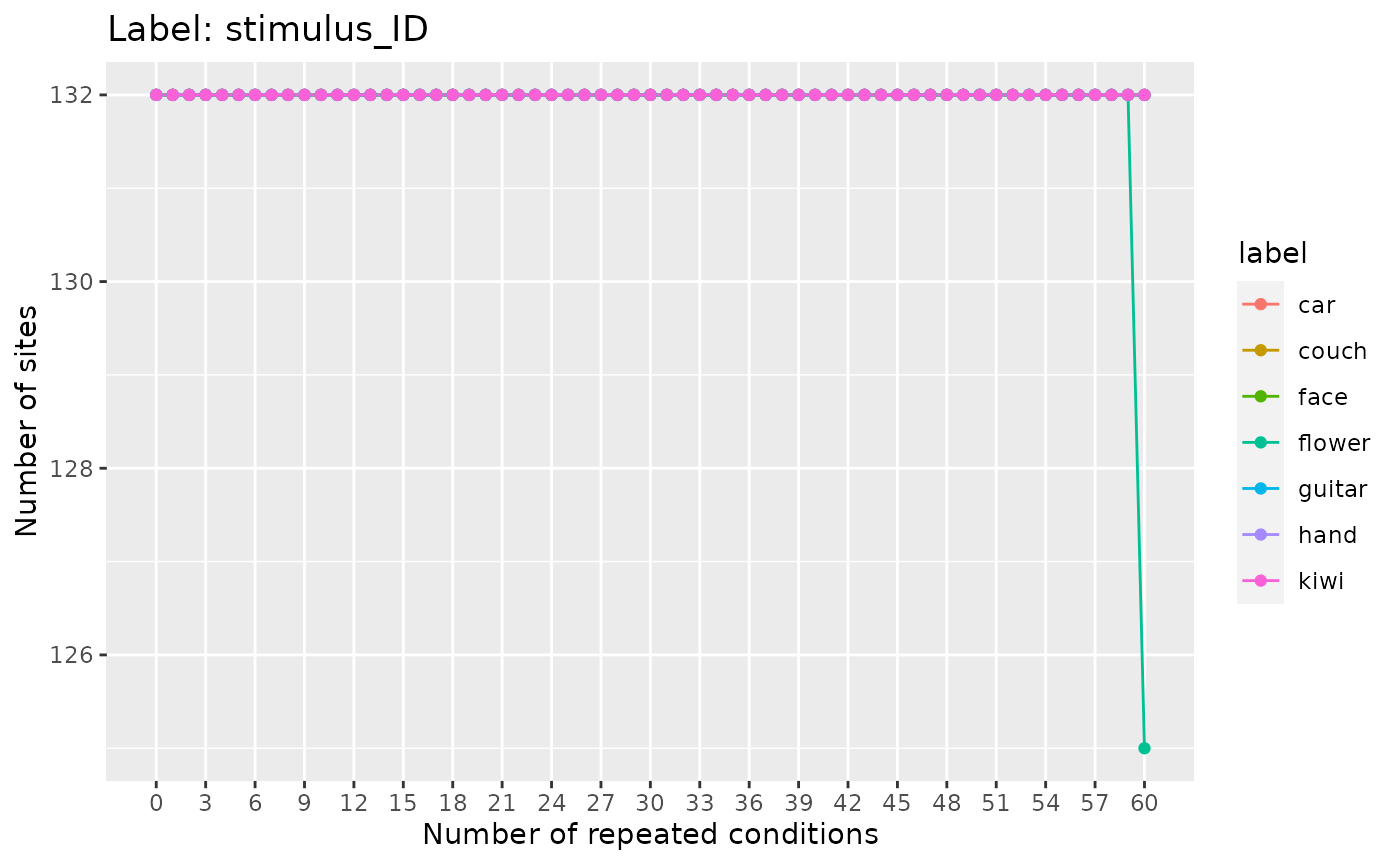
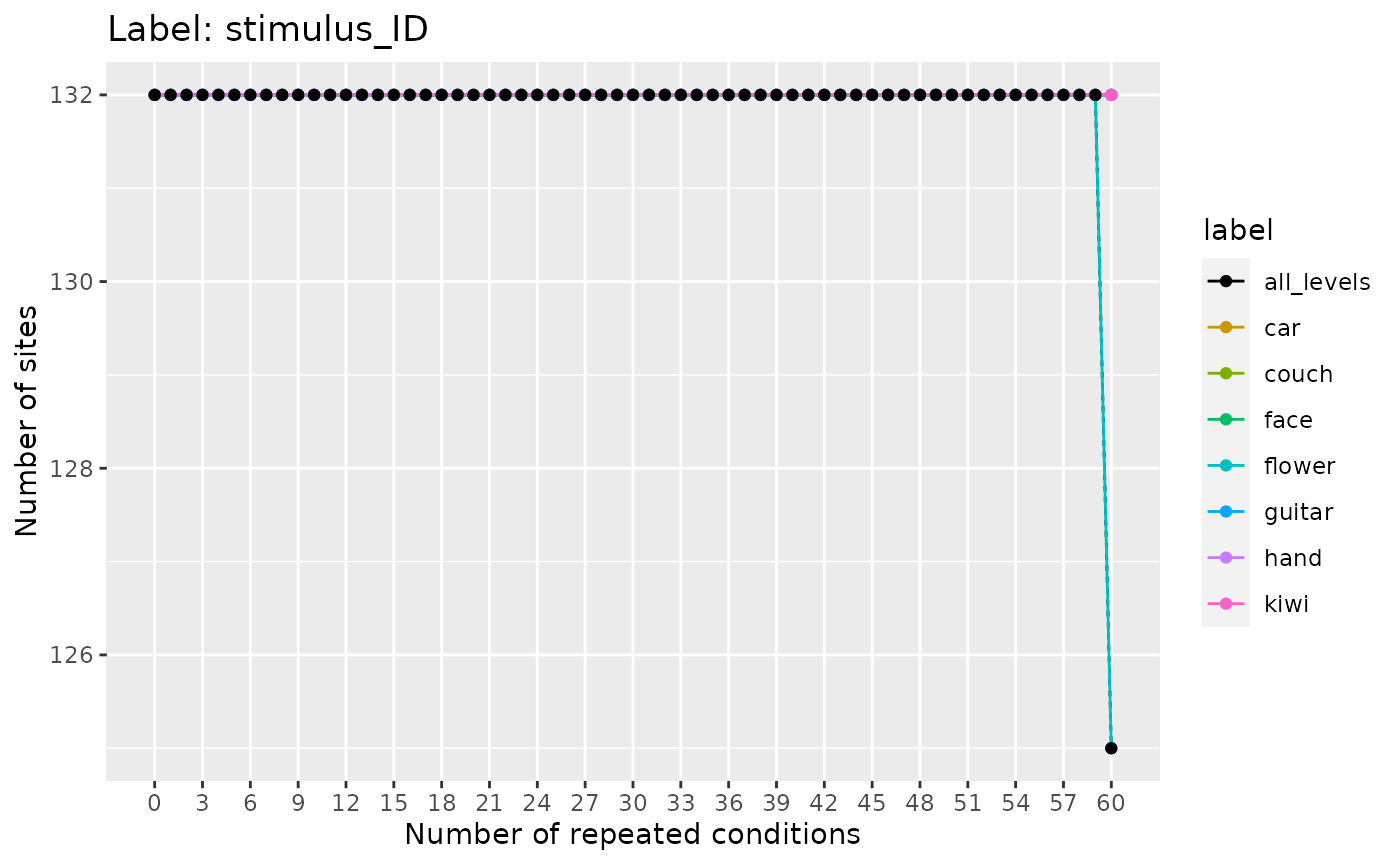
Rebuilt the pkgdown website.

diff --git a/docs/reference/get_siteIDs_with_k_label_repetitions.html b/docs/reference/get_siteIDs_with_k_label_repetitions.html
@@ -6,7 +6,7 @@
 <meta http-equiv="X-UA-Compatible" content="IE=edge">
 <meta name="viewport" content="width=device-width, initial-scale=1.0">
 
-<title>Get the number of sites have at least k trials of each label level — get_num_label_repetitions • NeuroDecodeR</title>
+<title>Get the sitesIDs that have at least k trials for all label level — get_siteIDs_with_k_label_repetitions • NeuroDecodeR</title>
 
 
 <!-- jquery -->
@@ -39,16 +39,12 @@
 
 
 
-<meta property="og:title" content="Get the number of sites have at least k trials of each label level — get_num_label_repetitions" />
-<meta property="og:description" content="Calculates number of sites that have at least k label level
-repetitions for all values k. This information is useful for assessing how to
-set the number of cross-validation splits (and repeats of labels per
-cross-validation split) to use in a datasource. One can also assess the
-number of label level repetitions separately conditioned on another site_info
-variable. For example, if one has recordings from different brain regions,
-and the brain region information is contained in a site_info variable, then
-one could calculate how many sites have at least k repetitions for each
-stimulus in each brain region." />
+<meta property="og:title" content="Get the sitesIDs that have at least k trials for all label level — get_siteIDs_with_k_label_repetitions" />
+<meta property="og:description" content="This function gets the siteIDs that have at least k label level
+repetitions. These siteIDs can be used in a datasource to only get data
+from sites that have enough label repetitions. For example, one could use
+these siteIDs in conjunction with the ds_basic's site_IDs_to_use argument
+to only get data from sites that have enough repetitions of each stimulus." />
 
 
 
@@ -146,27 +142,23 @@ stimulus in each brain region." />
 <div class="row">
   <div class="col-md-9 contents">
     <div class="page-header">
-    <h1>Get the number of sites have at least k trials of each label level</h1>
+    <h1>Get the sitesIDs that have at least k trials for all label level</h1>
     <small class="dont-index">Source: <a href='https://github.com/emeyers/NeuroDecodeR/blob/master/R/get_num_label_repetitions.R'><code>R/get_num_label_repetitions.R</code></a></small>
-    <div class="hidden name"><code>get_num_label_repetitions.Rd</code></div>
+    <div class="hidden name"><code>get_siteIDs_with_k_label_repetitions.Rd</code></div>
     </div>
 
     <div class="ref-description">
-    <p>Calculates number of sites that have at least k label level
-repetitions for all values k. This information is useful for assessing how to
-set the number of cross-validation splits (and repeats of labels per
-cross-validation split) to use in a datasource. One can also assess the
-number of label level repetitions separately conditioned on another site_info
-variable. For example, if one has recordings from different brain regions,
-and the brain region information is contained in a site_info variable, then
-one could calculate how many sites have at least k repetitions for each
-stimulus in each brain region.</p>
+    <p>This function gets the siteIDs that have at least k label level
+repetitions. These siteIDs can be used in a datasource to only get data
+from sites that have enough label repetitions. For example, one could use
+these siteIDs in conjunction with the ds_basic's site_IDs_to_use argument
+to only get data from sites that have enough repetitions of each stimulus.</p>
     </div>
 
-    <pre class="usage"><span class='fu'>get_num_label_repetitions</span><span class='op'>(</span>
+    <pre class="usage"><span class='fu'>get_siteIDs_with_k_label_repetitions</span><span class='op'>(</span>
   <span class='va'>binned_data</span>,
   <span class='va'>variable_to_use</span>,
-  site_info_grouping_name <span class='op'>=</span> <span class='cn'>NULL</span>,
+  <span class='va'>k</span>,
   levels_to_use <span class='op'>=</span> <span class='cn'>NULL</span>
 <span class='op'>)</span></pre>
 
@@ -184,10 +176,9 @@ binned format, or a data frame of binned_data that is in binned format.</p></td>
 used for calculating the minimum number of level repetitions.</p></td>
     </tr>
     <tr>
-      <th>site_info_grouping_name</th>
-      <td><p>A character string that specifies if the
-number of sites that have k repetitions should be computed separately
-based on the levels of a site_info variable.</p></td>
+      <th>k</th>
+      <td><p>A number specifying that all sitesIDs returned should have at least k
+repetitions of all label levels.</p></td>
     </tr>
     <tr>
       <th>levels_to_use</th>
@@ -196,16 +187,18 @@ If not set, all levels will be used.</p></td>
     </tr>
     </table>
 
-    <h2 class="hasAnchor" id="note"><a class="anchor" href="#note"></a>Note</h2>
-
-    <p>The returned value is an S3 object that inherits from data.frame that
-has an associated plot() method.</p>
 
     <h2 class="hasAnchor" id="examples"><a class="anchor" href="#examples"></a>Examples</h2>
     <pre class="examples"><div class='input'><span class='va'>data_file</span> <span class='op'>&lt;-</span> <span class='fu'><a href='https://rdrr.io/r/base/system.file.html'>system.file</a></span><span class='op'>(</span><span class='st'>"extdata/ZD_150bins_50sampled.Rda"</span>, package <span class='op'>=</span> <span class='st'>"NeuroDecodeR"</span><span class='op'>)</span>
-<span class='va'>label_rep_info</span> <span class='op'>&lt;-</span> <span class='fu'>get_num_label_repetitions</span><span class='op'>(</span><span class='va'>data_file</span>, <span class='st'>"stimulus_ID"</span><span class='op'>)</span>
-<span class='fu'><a href='https://rdrr.io/r/graphics/plot.default.html'>plot</a></span><span class='op'>(</span><span class='va'>label_rep_info</span><span class='op'>)</span>
-</div><div class='img'><img src='get_num_label_repetitions-1.png' alt='' width='700' height='433' /></div><div class='input'>
+<span class='fu'>get_siteIDs_with_k_label_repetitions</span><span class='op'>(</span><span class='va'>data_file</span>, <span class='st'>"stimulus_ID"</span><span class='op'>)</span>
+</div><div class='output co'>#&gt;   [1]   1   2   3   4   5   6   7   8   9  10  11  12  13  14  15  16  17  18
+#&gt;  [19]  19  20  21  22  23  24  25  26  27  28  29  30  31  32  33  34  35  36
+#&gt;  [37]  37  38  39  40  41  42  43  44  45  46  47  48  49  50  51  52  53  54
+#&gt;  [55]  55  56  57  58  59  60  61  62  63  64  65  66  67  68  69  70  71  72
+#&gt;  [73]  73  74  75  76  77  78  79  80  81  82  83  84  85  86  87  88  89  90
+#&gt;  [91]  91  92  93  94  95  96  97  98  99 100 101 102 103 104 105 106 107 108
+#&gt; [109] 109 110 111 112 113 114 115 116 117 118 119 120 121 122 123 124 125 126
+#&gt; [127] 127 128 129 130 131 132</div><div class='input'>
 
 </div></pre>
   </div>

diff --git a/docs/articles/generalization_tutorial.html b/docs/articles/generalization_tutorial.html
@@ -218,11 +218,11 @@
   |======================================================================| 100%</code></pre>
 <div class="sourceCode" id="cb7"><pre class="downlit sourceCode r">
 <code class="sourceCode R"><span class="fu">tictoc</span><span class="fu">::</span><span class="fu"><a href="https://rdrr.io/pkg/tictoc/man/tic.html">toc</a></span><span class="op">(</span><span class="op">)</span></code></pre></div>
-<pre><code>## 8.463 sec elapsed</code></pre>
+<pre><code>## 8.391 sec elapsed</code></pre>
 <div class="sourceCode" id="cb9"><pre class="downlit sourceCode r">
 <code class="sourceCode R"><span class="co"># show the zero-one loss decoding accuracy (chance is 1/7)</span>
 <span class="va">DECODING_RESULTS</span><span class="op">$</span><span class="va">rm_main_results</span><span class="op">$</span><span class="va">zero_one_loss</span></code></pre></div>
-<pre><code>## [1] 0.8460317</code></pre>
+<pre><code>## [1] 0.8428571</code></pre>
 </div>
 <div id="training-and-testing-at-all-locations" class="section level3">
 <h3 class="hasAnchor">
@@ -309,7 +309,7 @@
   |                                                                            
   |===============================================================       |  90%
   |                                                                            
-  |======================================================================| 100%7.995 sec elapsed</code></pre>
+  |======================================================================| 100%7.881 sec elapsed</code></pre>
 <pre><code>## Warning in log_save_results(DECODING_RESULTS, results_dir_name, result_name): The manifest file does not exist.
 ##   Assuming this is the first result that is saved and creating manifest file</code></pre>
 <pre><code>## 
@@ -334,7 +334,7 @@
   |                                                                            
   |===============================================================       |  90%
   |                                                                            
-  |======================================================================| 100%8.387 sec elapsed
+  |======================================================================| 100%8.354 sec elapsed
 ## 
   |                                                                            
   |                                                                      |   0%
@@ -357,7 +357,7 @@
   |                                                                            
   |===============================================================       |  90%
   |                                                                            
-  |======================================================================| 100%8.104 sec elapsed
+  |======================================================================| 100%8.039 sec elapsed
 ## 
   |                                                                            
   |                                                                      |   0%
@@ -380,7 +380,7 @@
   |                                                                            
   |===============================================================       |  90%
   |                                                                            
-  |======================================================================| 100%8.129 sec elapsed
+  |======================================================================| 100%8.463 sec elapsed
 ## 
   |                                                                            
   |                                                                      |   0%
@@ -403,7 +403,7 @@
   |                                                                            
   |===============================================================       |  90%
   |                                                                            
-  |======================================================================| 100%8.346 sec elapsed
+  |======================================================================| 100%7.838 sec elapsed
 ## 
   |                                                                            
   |                                                                      |   0%
@@ -426,7 +426,7 @@
   |                                                                            
   |===============================================================       |  90%
   |                                                                            
-  |======================================================================| 100%8.536 sec elapsed
+  |======================================================================| 100%8.296 sec elapsed
 ## 
   |                                                                            
   |                                                                      |   0%
@@ -449,7 +449,7 @@
   |                                                                            
   |===============================================================       |  90%
   |                                                                            
-  |======================================================================| 100%8.293 sec elapsed
+  |======================================================================| 100%8.393 sec elapsed
 ## 
   |                                                                            
   |                                                                      |   0%
@@ -472,7 +472,7 @@
   |                                                                            
   |===============================================================       |  90%
   |                                                                            
-  |======================================================================| 100%8.228 sec elapsed
+  |======================================================================| 100%8.428 sec elapsed
 ## 
   |                                                                            
   |                                                                      |   0%
@@ -495,7 +495,7 @@
   |                                                                            
   |===============================================================       |  90%
   |                                                                            
-  |======================================================================| 100%8.2 sec elapsed</code></pre>
+  |======================================================================| 100%8.189 sec elapsed</code></pre>
 </div>
 <div id="plotting-the-results" class="section level3">
 <h3 class="hasAnchor">

diff --git a/docs/reference/get_num_label_repetitions_each_site.html b/docs/reference/get_num_label_repetitions_each_site.html
@@ -6,7 +6,7 @@
 <meta http-equiv="X-UA-Compatible" content="IE=edge">
 <meta name="viewport" content="width=device-width, initial-scale=1.0">
 
-<title>Get the number of sites have at least k trials of each label level — get_num_label_repetitions • NeuroDecodeR</title>
+<title>Get the number of trial repetitions for a given label for each site — get_num_label_repetitions_each_site • NeuroDecodeR</title>
 
 
 <!-- jquery -->
@@ -39,16 +39,11 @@
 
 
 
-<meta property="og:title" content="Get the number of sites have at least k trials of each label level — get_num_label_repetitions" />
-<meta property="og:description" content="Calculates number of sites that have at least k label level
-repetitions for all values k. This information is useful for assessing how to
-set the number of cross-validation splits (and repeats of labels per
-cross-validation split) to use in a datasource. One can also assess the
-number of label level repetitions separately conditioned on another site_info
-variable. For example, if one has recordings from different brain regions,
-and the brain region information is contained in a site_info variable, then
-one could calculate how many sites have at least k repetitions for each
-stimulus in each brain region." />
+<meta property="og:title" content="Get the number of trial repetitions for a given label for each site — get_num_label_repetitions_each_site" />
+<meta property="og:description" content="Calculates how many repeated trials there are for each label
+level for each site. This can be useful for selecting sites that have a
+minimum number of repetitions of each stimulus or other experimental
+condition." />
 
 
 
@@ -146,27 +141,21 @@ stimulus in each brain region." />
 <div class="row">
   <div class="col-md-9 contents">
     <div class="page-header">
-    <h1>Get the number of sites have at least k trials of each label level</h1>
+    <h1>Get the number of trial repetitions for a given label for each site</h1>
     <small class="dont-index">Source: <a href='https://github.com/emeyers/NeuroDecodeR/blob/master/R/get_num_label_repetitions.R'><code>R/get_num_label_repetitions.R</code></a></small>
-    <div class="hidden name"><code>get_num_label_repetitions.Rd</code></div>
+    <div class="hidden name"><code>get_num_label_repetitions_each_site.Rd</code></div>
     </div>
 
     <div class="ref-description">
-    <p>Calculates number of sites that have at least k label level
-repetitions for all values k. This information is useful for assessing how to
-set the number of cross-validation splits (and repeats of labels per
-cross-validation split) to use in a datasource. One can also assess the
-number of label level repetitions separately conditioned on another site_info
-variable. For example, if one has recordings from different brain regions,
-and the brain region information is contained in a site_info variable, then
-one could calculate how many sites have at least k repetitions for each
-stimulus in each brain region.</p>
+    <p>Calculates how many repeated trials there are for each label
+level for each site. This can be useful for selecting sites that have a
+minimum number of repetitions of each stimulus or other experimental
+condition.</p>
     </div>
 
-    <pre class="usage"><span class='fu'>get_num_label_repetitions</span><span class='op'>(</span>
+    <pre class="usage"><span class='fu'>get_num_label_repetitions_each_site</span><span class='op'>(</span>
   <span class='va'>binned_data</span>,
   <span class='va'>variable_to_use</span>,
-  site_info_grouping_name <span class='op'>=</span> <span class='cn'>NULL</span>,
   levels_to_use <span class='op'>=</span> <span class='cn'>NULL</span>
 <span class='op'>)</span></pre>
 
@@ -184,12 +173,6 @@ binned format, or a data frame of binned_data that is in binned format.</p></td>
 used for calculating the minimum number of level repetitions.</p></td>
     </tr>
     <tr>
-      <th>site_info_grouping_name</th>
-      <td><p>A character string that specifies if the
-number of sites that have k repetitions should be computed separately
-based on the levels of a site_info variable.</p></td>
-    </tr>
-    <tr>
       <th>levels_to_use</th>
       <td><p>A character vector specifying which levels to include.
 If not set, all levels will be used.</p></td>
@@ -201,13 +184,6 @@ If not set, all levels will be used.</p></td>
     <p>The returned value is an S3 object that inherits from data.frame that
 has an associated plot() method.</p>
 
-    <h2 class="hasAnchor" id="examples"><a class="anchor" href="#examples"></a>Examples</h2>
-    <pre class="examples"><div class='input'><span class='va'>data_file</span> <span class='op'>&lt;-</span> <span class='fu'><a href='https://rdrr.io/r/base/system.file.html'>system.file</a></span><span class='op'>(</span><span class='st'>"extdata/ZD_150bins_50sampled.Rda"</span>, package <span class='op'>=</span> <span class='st'>"NeuroDecodeR"</span><span class='op'>)</span>
-<span class='va'>label_rep_info</span> <span class='op'>&lt;-</span> <span class='fu'>get_num_label_repetitions</span><span class='op'>(</span><span class='va'>data_file</span>, <span class='st'>"stimulus_ID"</span><span class='op'>)</span>
-<span class='fu'><a href='https://rdrr.io/r/graphics/plot.default.html'>plot</a></span><span class='op'>(</span><span class='va'>label_rep_info</span><span class='op'>)</span>
-</div><div class='img'><img src='get_num_label_repetitions-1.png' alt='' width='700' height='433' /></div><div class='input'>
-
-</div></pre>
   </div>
   <div class="col-md-3 hidden-xs hidden-sm" id="pkgdown-sidebar">
     <nav id="toc" data-toggle="toc" class="sticky-top">

diff --git a/docs/articles/NDR_object_specification.html b/docs/articles/NDR_object_specification.html
@@ -246,11 +246,11 @@
 
 <span class="co"># prior to z-score normalizing the mean (e.g. for site 1) is not 0</span>
 <span class="fu"><a href="https://rdrr.io/r/base/mean.html">mean</a></span><span class="op">(</span><span class="va">training_set</span><span class="op">$</span><span class="va">site_0001</span><span class="op">)</span></code></pre></div>
-<pre><code>## [1] 0.002857143</code></pre>
+<pre><code>## [1] 0.00302521</code></pre>
 <div class="sourceCode" id="cb5"><pre class="downlit sourceCode r">
 <code class="sourceCode R"><span class="co"># after normalizing the data the mean is pretty much 0</span>
 <span class="fu"><a href="https://rdrr.io/r/base/mean.html">mean</a></span><span class="op">(</span><span class="va">processed_data</span><span class="op">$</span><span class="va">training_set</span><span class="op">$</span><span class="va">site_0001</span><span class="op">)</span></code></pre></div>
-<pre><code>## [1] 5.416273e-17</code></pre>
+<pre><code>## [1] -2.984107e-17</code></pre>
 <p><br></p>
 <p><br></p>
 </div>
@@ -330,7 +330,7 @@
 <code class="sourceCode R"><span class="co"># see how accurate the predictions are (chance is 1/7)</span>
 <span class="va">predictions_at_100ms</span> <span class="op">&lt;-</span> <span class="fu">dplyr</span><span class="fu">::</span><span class="fu"><a href="https://dplyr.tidyverse.org/reference/filter.html">filter</a></span><span class="op">(</span><span class="va">predictions</span>, <span class="va">test_time</span> <span class="op">==</span> <span class="st">"time.100_250"</span><span class="op">)</span>
 <span class="fu"><a href="https://rdrr.io/r/base/mean.html">mean</a></span><span class="op">(</span><span class="va">predictions_at_100ms</span><span class="op">$</span><span class="va">actual_labels</span> <span class="op">==</span> <span class="va">predictions_at_100ms</span><span class="op">$</span><span class="va">predicted_labels</span><span class="op">)</span></code></pre></div>
-<pre><code>## [1] 0.8571429</code></pre>
+<pre><code>## [1] 0.7142857</code></pre>
 <p><br></p>
 <p><br></p>
 </div>

diff --git a/docs/reference/plot.label_repetition.html b/docs/reference/plot.label_repetition.html
@@ -156,7 +156,7 @@ further modified as needed.</p>
     </div>
 
     <pre class="usage"><span class='co'># S3 method for label_repetition</span>
-<span class='fu'><a href='https://rdrr.io/r/graphics/plot.default.html'>plot</a></span><span class='op'>(</span><span class='va'>x</span>, <span class='va'>...</span>, show_legend <span class='op'>=</span> <span class='cn'>TRUE</span>, site_info_facet_name <span class='op'>=</span> <span class='cn'>NULL</span><span class='op'>)</span></pre>
+<span class='fu'><a href='https://rdrr.io/r/graphics/plot.default.html'>plot</a></span><span class='op'>(</span><span class='va'>x</span>, <span class='va'>...</span>, show_legend <span class='op'>=</span> <span class='cn'>TRUE</span><span class='op'>)</span></pre>
 
     <h2 class="hasAnchor" id="arguments"><a class="anchor" href="#arguments"></a>Arguments</h2>
     <table class="ref-arguments">
@@ -174,13 +174,6 @@ get_num_label_repetitions() function.</p></td>
       <th>show_legend</th>
       <td><p>A Boolean specifying whether to show a legend
 that list which label each color in the plot corresponds to.</p></td>
-    </tr>
-    <tr>
-      <th>site_info_facet_name</th>
-      <td><p>Setting this to a string that is the name of one of the site_info
-variable names will make a plot that is faceted by this variable name; i.e., it will
-show the number of number of sites have at least k label repetitions separately for each level
-in the site_info variable name specified.</p></td>
     </tr>
     </table>
 

diff --git a/docs/reference/index.html b/docs/reference/index.html
@@ -364,7 +364,7 @@
         <td>
           <p><code><a href="get_num_label_repetitions.html">get_num_label_repetitions()</a></code> </p>
         </td>
-        <td><p>Get the number of trial repetitions for a given label</p></td>
+        <td><p>Get the number of sites have at least k trials of each label level</p></td>
       </tr>
     </tbody>
     </table>
